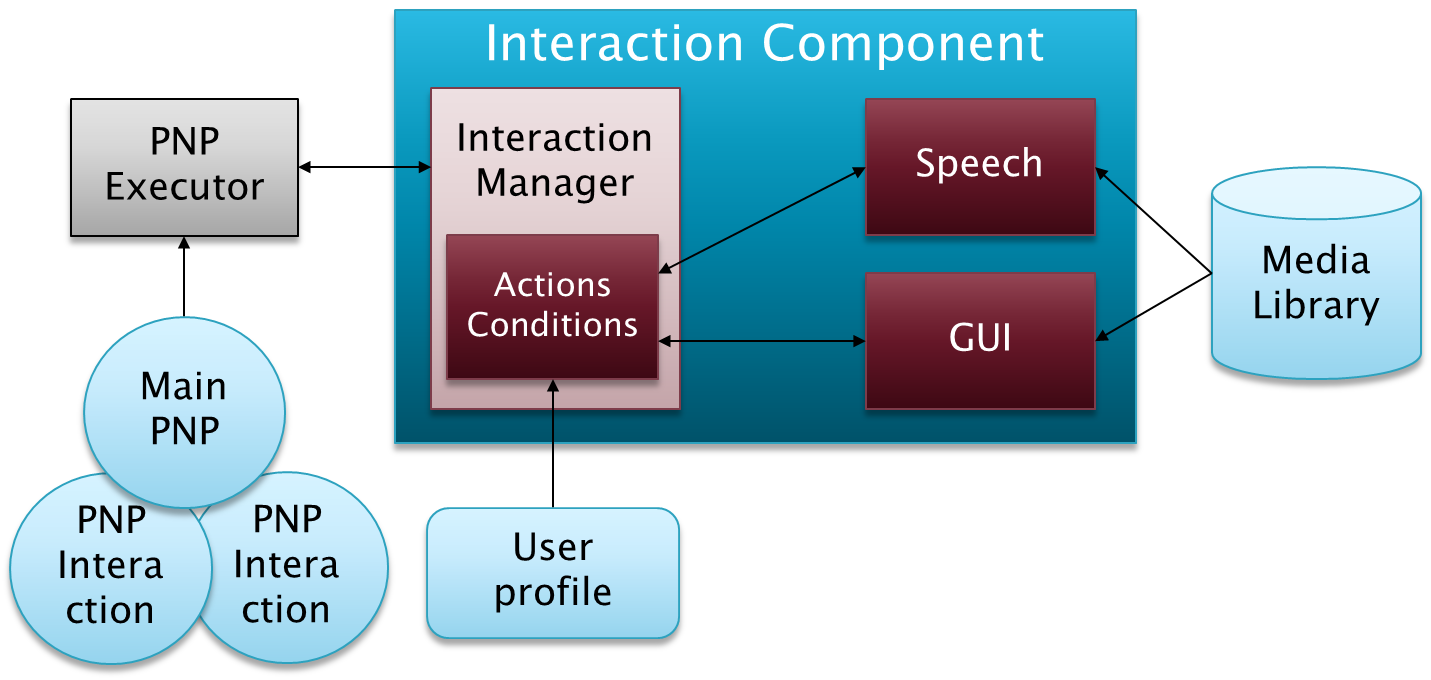
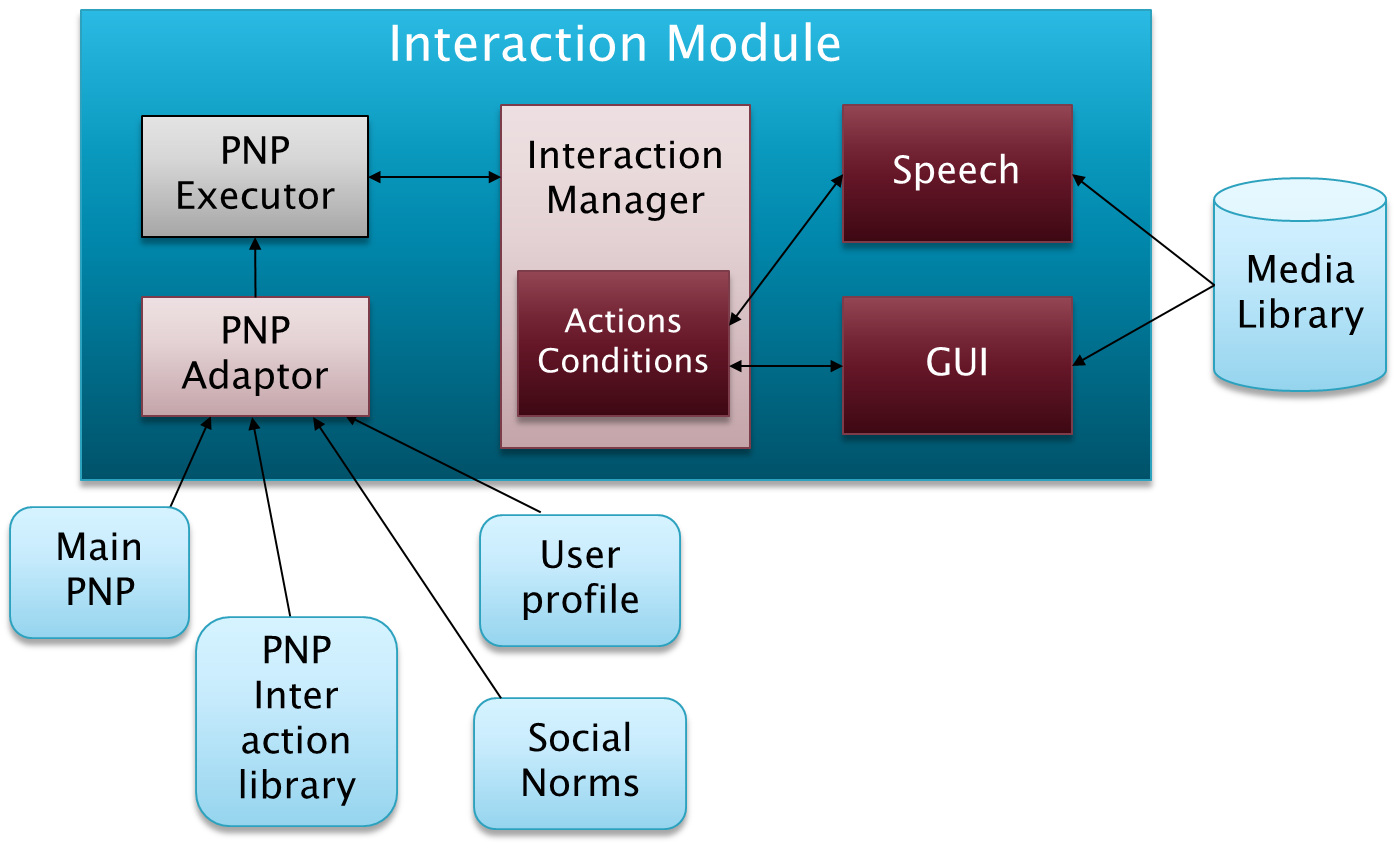
15-ICSR system

diff --git a/doc/papers/15-ICSR/system.tex b/doc/papers/15-ICSR/system.tex
@@ -1,56 +1,71 @@
-\section{Short-term Personalized Multi-Modal Interactions}
+\section{Personalized Short-term Multi-Modal Interactions}
 
-One of the main goals of the COACHES project is personalized short-term interactions with non-expert users, that are typical customers of a shopping mall.
+As already mentioned, 
+one of the main goals of the COACHES project is personalized short-term multi-modal interactions with non-expert users, that are typical customers of a shopping mall.
 
-Short-term ...
-
-Personalized ...
-
-Multi-modal interaction ...
+In this context, \emph{Personalized} means that the robot should use different forms of interactions to communicate the same concept with different users, in order to increase its social acceptability;
+\emph{Short-term} means that the interactions are short and focused on only one particular communicative objective, avoiding long and complex interactions; while
+\emph{Multi-modality} is obtained by using different interaction devices on the robot (although in this study, we focus only on speech and graphical interfaces).
 
 
 
 \begin{figure}
 \centering
 \includegraphics[width=0.95\textwidth]{fig/WP3.png}
-\caption{Architecture of the Human-Robot Interaction sub-system.}
+\caption{Architecture of Interaction Module.}
 \label{fig:swarch}
 \end{figure}
 
-The architecture of the Human-Robot Interaction sub-system is illustrated in Figure \ref{fig:swarch} and their components are described in the following.
+The architecture of the Interaction Module is illustrated in Figure \ref{fig:swarch}. Data available to this module are Petri Net Plans (PNP) describing the desired behavior of the robot, User profiles and a multi-media library.
 
-\subsection{Interaction Manager}
-% Description of the Interaction Manager component...
+The PNPs (as described later) encode the overall behavior of the robot, as generated by the planning and reasoning components of the system. The behavior include both basic robotic actions (e.g., moving in the environment) and interaction action.
 
-The interactions are coordinated by an Interaction Manager (IM), which is a complex component that integrates different information produced by other components or available in the system and controls the interaction with a user.
+The user profile are information available about the user that is interacting with the robot. These data are in general not easy to obtain. Since this is not the focus of this paper, we assume the data are available in an appropriate format acquired with appropriate means.
+Among acquisition means, it is possible to think about users wearing an RFID tag which contains personal information read by an RFID reader on-board the robot, or to the request of swiping a fidelity card, enter a personal password or showing to the robot a QR-code, in order to communicate to the robot the user profile.
+In our experiments, we have used a simple identification mechanism based on recognizing QR-codes shown by the user to the robot on-board camera.
 
-The IM actually coordinates all the robot modules (both the ones related with human-robot interaction and the ones used for implementing the basic robotic functionalities).
-Its goal is thus to provide effective robot behaviors, including the personalized short-term multi-modal interactions.
+Finally, the media library is a collection of multi-media data (text, images, animations, video, etc.) that are linked to the communication activities of the robot and to the user profiles. We assume that in this library there may be different versions of the same communication item for different users. For example, ice-cream advertisement can have a different spoken text and different displayed images or videos for children and adults.
 
-The IM module takes as input: a goal-oriented plan, the user profile, a set of general social norms and a media library. The plan and the user profile dynamically change over time, depending on the current situation the robot is facing, while the social rules and the media library are stored before the start of the robot task.
+In the remaining of this section, we will describe in more details the components of the interaction module.
 
-The IM module is within the framework of the Petri Net Plans (PNP) formalism \cite{}. More specifically, the IM is the action and condition server that executes actions and provides conditions, according to the requests of the PNP Executor module.
-A main plan, which include \emph{interaction plans} for HRI behaviors, is then executed by the PNP Executor, that is a general-purpose process that calls actions and receives conditions to/from the IM module.
-In this way, we can easily separate the implementation of the basic actions and conditions (that are implemented in the HRI module) from their composition (that is implemented through PNP). 
+\subsection{PNP Adaptor and Executor}
 
-
-PNP are based on two main concepts: \emph{actions} (i.e., output operations) and \emph{conditions} (i.e., input operations). Actions include motion of the robot in the environment, spoken sentences issued by the on-board speakers, text, images, videos or animations shown on the on-board screen, etc.
+The Interaction Module is implemented within the framework of the Petri Net Plans (PNP) formalism \cite{ZiIo}. PNPs are based on two main concepts: \emph{actions} (i.e., output operations) and \emph{conditions} (i.e., input operations). Actions include motion of the robot in the environment, spoken sentences issued by the on-board speakers, text, images, videos or animations shown on the on-board screen, etc.
 Conditions include the result of perception routines (e.g., image processing or speech recognition), the input given by a user through a GUI on the on-board screen, information about personal data of user acquired through a reader of fidelity cards, etc.
 
 The use of PNP for representing in an integrated way all these different kinds of actions and conditions allows for a strong coordination between the different sub-systems of the robot and for showing more complex behaviors and, in particular, a multi-modal interaction that can be easily customized according to the user.
 
 
+The main plan, which include \emph{interaction plans} for HRI behaviors, generated by the reasoning and planning sub-system, is first processed by the PNP Adaptor and then executed by the PNP Executor. Both these modules are general-purpose, since all the relevant information are provided by external sources with an explicit representation. More specifically, the PNP Adaptor generates a personalized plan, given a main plan, a library of interaction plans, a set of social norms, and the user profile.
+The generated personalized plan in then executed by the PNP Executor.
 
-\subsection{Speech and GUI modules}
+PNP Adaptor ...
+
+
+
+PNP Executor ...
+
+
+
+
+\subsection{Interaction Manager}
+% Description of the Interaction Manager component...
+
+The interactions are coordinated by an Interaction Manager (IM), which coordinates all the robot activities (both the ones related with human-robot interaction and the ones used for implementing the basic robotic functionalities).
+Its goal is thus to provide effective robot behaviors, including the personalized short-term multi-modal interactions described in this section.
+
+The IM is an action and condition server that executes actions and provides conditions, according to the requests of the PNP Executor module. It thus includes the definition of a set of primitive actions and conditions that are activated according to the plan under execution.
+For the interaction behavior, actions and conditions are actually related to the Speech and Graphical Interface (GUI) modules described later. While the actions and the conditions related to the basic robot abilities (such as navigation, localization, perception, etc.) are not illustrate and described here, since the focus of this paper is on interaction.
+
+
+\subsection{Speech and Graphical Interfaces}
 
 The interaction modalities considered so far in the project are speech and graphical interfaces.
 
-These interaction sub-systems that are described in the next sections are: 1) speech sub-system, that enables the robot with voice interactions with users, 2) GUI sub-system, that allows for interaction through a graphical interface, ???
-
 
 \paragraph{Speech recognition and synthesis.}
-The speech module allows the robot to communicate with humans through vocal interactions. 
-It  is formed by two components: Automatic Speech Recognition (ASR) and Text-To-Speech (TTS),.
+The speech component allows the robot to communicate with humans through vocal interactions. 
+It is formed by Automatic Speech Recognition (ASR) and Text-To-Speech (TTS).
 
 The ASR component analyzes audio data coming from a microphone and extract semantic information about the spoken sentences, according to a predefined grammar. This component allows the robot to understand user spoken commands.
 The speech recognition module is based on the Microsoft engine and on a further processing module that builds the semantic frames of the recognized sentences.
@@ -59,8 +74,7 @@ More details on the approach are available in \cite{Ba...}.
 The TTS component transforms text messages in audio data that are then emitted by the speakers on-board the robot. This enables the robot to speak to people. The Microsoft TTS engine is used for this module.
 
 
-\paragraph{Graphical User Interface}
-
+\paragraph{Graphical User Interface.}
 
 The GUI component implements a graphical input and output interface between users and robots that is displayed through the touch screen on-board the robot. The GUI defines actions (i.e., output operations) and conditions (i.e., input operations) that are integrated in the IM with other communication primitives (e.g., speech) in order to implement a multi-modal interaction.
 

diff --git a/doc/papers/15-ICSR/coaches.tex b/doc/papers/15-ICSR/coaches.tex
@@ -3,15 +3,16 @@
 
 \begin{figure}[t!]
 \centering
-\includegraphics[width=0.65\textwidth]{fig/rivedelorne}
-\hspace{0.8cm}
-\includegraphics[width=0.255\textwidth]{fig/diago1}
-\caption{\coaches environment and robot.}
+\includegraphics[width=0.6\textwidth]{fig/rivedelorne}
+\hspace{0.1cm}
+\includegraphics[width=0.18\textwidth]{fig/diago1}
+\includegraphics[width=0.18\textwidth]{fig/coaches_robot}
+\caption{\coaches environment and robots.}
 \label{fig:env}
 \end{figure}
 
 In the \coaches project, we aim at further developing this technology, but specifically study, develop and test integration of Artificial Intelligence and Robotics technology in order to develop robots that can suitable interact with users in a complex large public environment, like a shopping mall.
-Figure \ref{fig:env} shows the \emph{Rive de l'orne} shooping mall in Caen (France) where the experimental activities of the project will be carried out, as well as a prototype of the robot that will be used.
+Figure \ref{fig:env} shows, on the left, the \emph{Rive de l'orne} shooping mall in Caen (France) where the experimental activities of the project will be carried out, on the middle a prototype of the robot that will be used for the preliminary experiments, on the right, the design of the robots that will be realized (within fall 2015) and tested during the project.
 
 
 As shown in the figure, in contrast with previous work on social robotics and human-robot interaction, the \coaches environment is very challenging, because populated by many people.
@@ -20,12 +21,9 @@ and the robot's goals.
 Consequently, the required level of ``intelligence'' of the \coaches robots in order to adequately perform complex and effective tasks in this environment in presence of people is much higher than in previous projects.
 
 The \coaches project (October 2014 - September 2017) will provide important insights for actual deployment of intelligent social robots in large populated public areas. 
-In this paper, we describe the main overall architecture of the system (Section 2), mostly focusing on the components that implement the integration between Artificial Intelligence and Robotics techniques (Section 3): 1) knowledge representation for the semantic map of the environment,
-2) planning under uncertainty using MDP, 3) hierarchical task structure for plan execution and monitoring. 
-Moreover, in Section 4 we present some preliminary results of such an integration, showing the feasibility of the proposed architecture.
 
 
-\subsection{Software Architecture}
+%\subsection{Software Architecture}
 
 \begin{figure}
 \centering
@@ -34,7 +32,7 @@ Moreover, in Section 4 we present some preliminary results of such an integratio
 \label{fig:swarch}
 \end{figure}
 
-The software architecture of the \coaches robots is shown in Figure \ref{fig:swarch}).
+The software architecture of the \coaches robots is shown in Figure \ref{fig:swarch}.
 An open architecture (hard/soft) and standard technologies available will be used, 
 so that it will be easy to extend and/or adapt the capabilities of the system during the whole length of 
 the  project  (especially  to  integrate  and  test  various  algorithms  and/or  sensors).  
@@ -59,12 +57,6 @@ The main software components that will be developed for control, reasoning and i
 
 \end{itemize}
 
-In the next section we will detail the components 
-\emph{Knowledge-based representation and reasoning} and
-\emph{Planning and execution monitoring},
-where Artificial Intelligence techniques have a fundamental role.
-
-
-
-
+In the next section we will describe the \emph{Short-Term Multi-Modal HRI} component
+and, in particular, we show our approach to personalized interactions with users of the shopping mall.
 

diff --git a/doc/papers/15-ICSR/intro.tex b/doc/papers/15-ICSR/intro.tex
@@ -8,3 +8,5 @@ including people. The new challenge for the near future is that robots will be d
 Such application domains require robots with new capabilities leading to new scientific challenges: robots should assess the situation, estimate the needs of people, socially interact in a dynamic way and in a short time, with many people, the navigation should be safe and respects the social norms. These capabilities require new skills including robust and safe navigation, robust image and video processing, short-term human-robot interaction models, human need estimation techniques and distributed and scalable multi-agent planning.
 
 
+In this paper, after an analysis of the literature in personalized human-robot interaction (Section 2) and a brief description of the general architecture of the \coaches system (Section 3), we describe the human-robot interaction component and, in particular, our approach to personalized short-term multi-modal interaction (Section 4). Then, in Section 5, we provide some examples of application of the proposed system and finally conclusions are drafted in Section 6.
+

diff --git a/doc/papers/15-ICSR/relwork.tex b/doc/papers/15-ICSR/relwork.tex
@@ -1,0 +1,5 @@
+\section{Related work}
+
+Personalized human-robot interaction...
+
+
